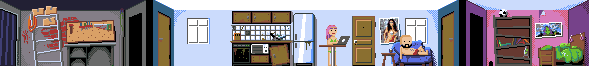
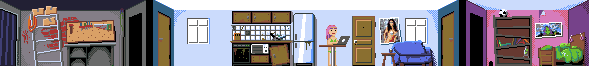
Add father mechanics

Changed region(s): [[0.6723, 0.5152, 0.7334, 0.8788]]

diff --git a/src/game/scene_objects/Bouteille.ts b/src/game/scene_objects/Bouteille.ts
@@ -4,6 +4,8 @@ import Play from "../state/Play";
 import {Action} from "../actions/Action";
 import {TalkAction} from "../actions/TalkAction";
 import {MoveAction} from "../actions/MoveAction";
+import {Father} from "./Father";
+import {AddInventoryAction} from "../actions/AddInventoryAction";
 
 export class Bouteille extends SceneObject {
     constructor(play: Play) {
@@ -15,12 +17,21 @@ export class Bouteille extends SceneObject {
     }
 
     protected pickUp(origin: SceneObject, pointer: Phaser.Pointer): Array<Action> {
-        // TODO
-        return [
-            new MoveAction(this.play_, pointer.position.x),
-            new TalkAction(this.play_, this.play_.getBaby(), "Touche pas a ca fils de pute!"),
-            new TalkAction(this.play_, this.play_.getBaby(), "Faudrait que je detourne son attention...")
-        ];
+        let father = <Father> this.play_.getMainGroup().getObject(Father.IDENTIFIER);
+        if (!father.isBusy()) {
+            return [
+                new MoveAction(this.play_, pointer.position.x),
+                new TalkAction(this.play_, father, "Touche pas a ca fils de pute!"),
+                new TalkAction(this.play_, this.play_.getBaby(), "Faudrait que je detourne son attention...")
+            ];
+        }
+        else {
+            return [
+                new MoveAction(this.play_, pointer.position.x),
+                new AddInventoryAction(this.play_, Bouteille.IDENTIFIER),
+                new TalkAction(this.play_, this.play_.getBaby(), "Fais moi penser a gouter!")
+            ];
+        }
     }
 
     static get IDENTIFIER()

diff --git a/src/game/scene_objects/DVDPlayer.ts b/src/game/scene_objects/DVDPlayer.ts
@@ -1,0 +1,36 @@
+
+import {SceneObject} from "./SceneObject";
+import Play from "../state/Play";
+import {Action} from "../actions/Action";
+import {MoveAction} from "../actions/MoveAction";
+import {RemoveInventoryAction} from "../actions/RemoveInventoryAction";
+import {Father} from "./Father";
+
+export class DVDPlayer extends SceneObject {
+    constructor(play: Play) {
+        super(play, DVDPlayer.IDENTIFIER, 402*4, 41*4, 'dvdplayer');
+    }
+
+    toFrench(): string {
+        return 'le lecteur DVD';
+    }
+
+    protected use(origin: SceneObject, pointer: Phaser.Pointer): Array<Action> {
+        let object = this.play_.getInventoryObject();
+        if (null !== object && object.getIdentifier() === 'dvdporno') {
+            let father = <Father> this.play_.getMainGroup().getObject(Father.IDENTIFIER);
+            father.setBusy();
+
+            return [
+                new MoveAction(this.play_, pointer.position.x),
+                new RemoveInventoryAction(this.play_, object)
+            ]
+        }
+        return super.use(origin, pointer);
+    }
+
+    static get IDENTIFIER()
+    {
+        return 'dvdplayer';
+    }
+}

diff --git a/src/game/groups/MainGroup.ts b/src/game/groups/MainGroup.ts
@@ -15,6 +15,8 @@ import {BedroomDoor} from "../scene_objects/BedroomDoor";
 import {Pot} from "../scene_objects/Pot";
 import {Four} from "../scene_objects/Four";
 import {Bouteille} from "../scene_objects/Bouteille";
+import {DVDPlayer} from "../scene_objects/DVDPlayer";
+import {Father} from "../scene_objects/Father";
 
 export class MainGroup extends Phaser.Group
 {
@@ -38,8 +40,9 @@ export class MainGroup extends Phaser.Group
         this.add(new Chain(this.play));
         this.add(new Pot(this.play));
         this.add(new Four(this.play));
-        // this.add(new SceneObject(this.play, 'prisepetee', 175*4, 55*4, 'prisepetee'));
         this.add(new Bouteille(this.play));
+        this.add(new DVDPlayer(this.play));
+        this.add(new Father(this.play));
         this.add(new PickableObject(this.play, 'lexomil', 'un medicament', 400*4, 55*4, 'lexomil', 'lexomil'));
         this.add(new PickableObject(this.play, 'coldMeat', 'le steak surgele', 295*4, 45*4, 'icesteak', 'icesteak', false));
         this.add(new PickableObject(this.play, 'engrais', 'la bouteille', 270*4, 45*4, 'engrais', 'engrais', false));

diff --git a/src/game/scene_objects/Four.ts b/src/game/scene_objects/Four.ts
@@ -5,6 +5,7 @@ import {MoveAction} from "../actions/MoveAction";
 import {RemoveInventoryAction} from "../actions/RemoveInventoryAction";
 import {AddInventoryAction} from "../actions/AddInventoryAction";
 import {Action} from "../actions/Action";
+import {TalkAction} from "../actions/TalkAction";
 
 export class Four extends SceneObject
 {
@@ -20,6 +21,7 @@ export class Four extends SceneObject
                     new MoveAction(this.play_, pointer.position.x),
                     new RemoveInventoryAction(this.play_, object),
                     new AddInventoryAction(this.play_, 'piles'),
+                    new TalkAction(this.play_, this.play_.getBaby(), 'Ca sent le crame maintenant, bravo'),
                 ];
             }
         }

diff --git a/src/game/state/Play.ts b/src/game/state/Play.ts
@@ -141,6 +141,8 @@ export default class Play extends Phaser.State
         this.inventoryGroup.add(new InventoryObject(this, 'lampePiles', 'la lampe UV', "J'ai perdu mes deux yeux"));
         this.inventoryGroup.add(new InventoryObject(this, 'zipposec', 'le zippo', "Il est tout sec!"));
         this.inventoryGroup.add(new InventoryObject(this, 'dvdporno', 'le DVD', '"Hairy mature gays"'));
+        this.inventoryGroup.add(new InventoryObject(this, 'bouteille', 'la bouteille', "Une bouteille d'alcool"));
+        this.inventoryGroup.add(new InventoryObject(this, 'cannabis', 'la weed', "Ca sent bien ce truc la"));
     }
 
     private createCursor() {

diff --git a/src/game/scene_objects/Father.ts b/src/game/scene_objects/Father.ts
@@ -1,0 +1,32 @@
+
+import {SceneObject} from "./SceneObject";
+import Play from "../state/Play";
+
+export class Father extends SceneObject {
+    private busy: boolean;
+
+    constructor(play: Play) {
+        super(play, Father.IDENTIFIER, 400*4, 65*4, 'father');
+
+        this.busy = false;
+        this.anchor.setTo(0, 1);
+    }
+
+    toFrench(): string {
+        return 'papa';
+    }
+
+    setBusy() {
+        this.busy = true;
+        this.loadTexture('fatherBusy');
+    }
+
+    static get IDENTIFIER()
+    {
+        return 'father';
+    }
+
+    isBusy():boolean {
+        return this.busy;
+    }
+}

diff --git a/src/game/Sentence.ts b/src/game/Sentence.ts
@@ -1,7 +1,7 @@
 
-
 import {SceneObject} from "./scene_objects/SceneObject";
 import {Verb} from "./verbs/Verb";
+
 export class Sentence extends Phaser.Text {
     private object: SceneObject;
     private secondaryObject: SceneObject;
@@ -21,6 +21,7 @@ export class Sentence extends Phaser.Text {
         this.object = null;
         this.verb = null;
         this.secondaryObject = null;
+        this.lineSpacing = -15;
 
         this.game.add.existing(this);
         this.anchor.setTo(0.5, 0.5);

diff --git a/src/game/state/Preload.ts b/src/game/state/Preload.ts
@@ -30,6 +30,8 @@ export default class Preload extends Phaser.State {
         this.game.load.image('bouteille', 'assets/bouteille.png');
         this.game.load.image('potvide', 'assets/potvide.png');
         this.game.load.image('four', 'assets/four.png');
+        this.game.load.image('father', 'assets/father.png');
+        this.game.load.image('fatherBusy', 'assets/fatherBusy.png');
 
         // Inventory
         this.game.load.image('cannabis', 'assets/cannabis.png');

diff --git a/src/game/actions/TalkAction.ts b/src/game/actions/TalkAction.ts
@@ -58,7 +58,7 @@ export class TalkAction extends Action {
                 x = SimpleGame.WIDTH - DIALOG_WIDTH / 2;
             }
             this.textSprite = this.play.game.add.text(
-                x, this.source.worldPosition.y - this.source.height + 20, '', style
+                x, this.source.worldPosition.y - this.source.height, '', style
             );
             this.textSprite.anchor.setTo(0.5, 1);
             this.textSprite.lineSpacing = -20;

diff --git a/src/game/scene_objects/SceneObject.ts b/src/game/scene_objects/SceneObject.ts
@@ -25,7 +25,7 @@ export class SceneObject extends Phaser.Sprite
         this.shouldDetach = true;
     }
 
-    getIdentifier() {
+    getIdentifier():string {
         return this.identifier;
     }
 
